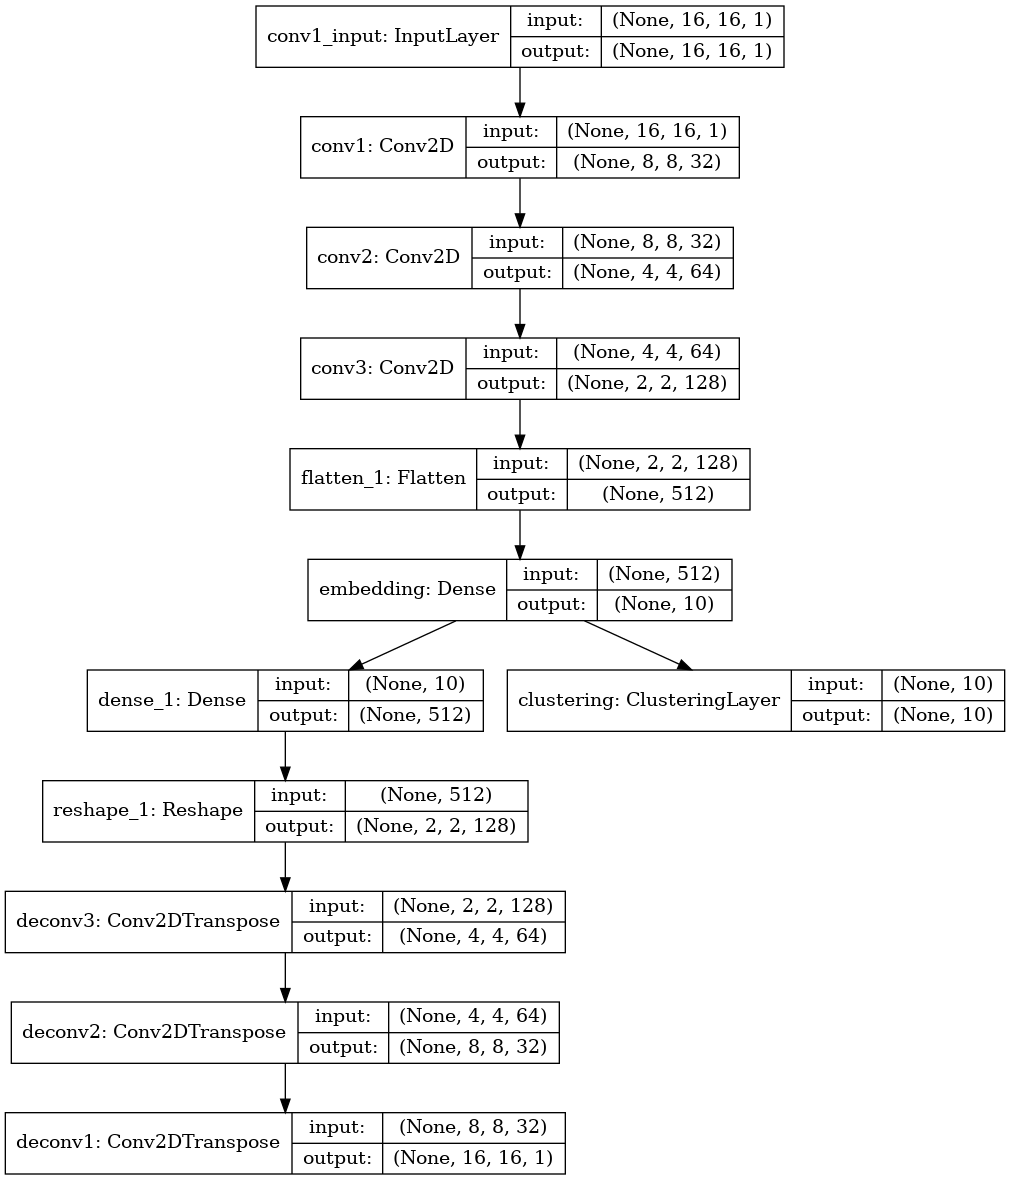
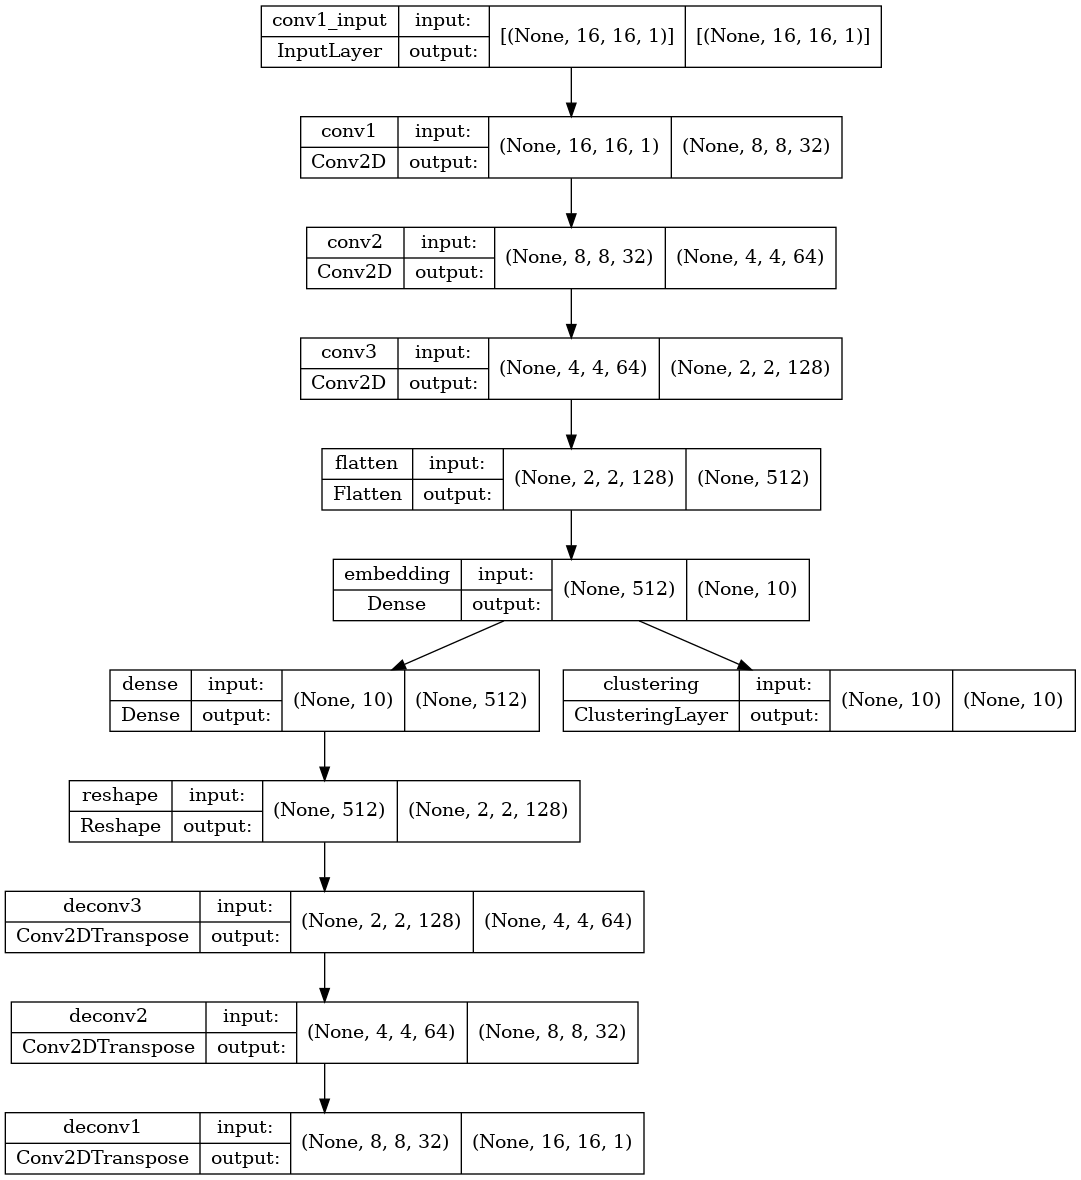
Merge tf2

diff --git a/ConvAE.py b/ConvAE.py
@@ -1,38 +1,41 @@
-from keras.layers import Conv2D, Conv2DTranspose, Dense, Flatten, Reshape
-from keras.models import Sequential, Model
-from keras.utils.vis_utils import plot_model
+from tensorflow import keras
 import numpy as np
 
+
 def CAE(input_shape=(1000, 6, 1), filters=[32, 64, 128, 10]):
-    model = Sequential()
+    model = keras.models.Sequential()
+
     if input_shape[0] % 8 == 0:
         pad3 = 'same'
     else:
         pad3 = 'valid'
-    model.add(Conv2D(filters[0], 5, strides=(2,5), padding='same', activation='relu', name='conv1', input_shape=input_shape))
 
-    model.add(Conv2D(filters[1], 5, strides=(2,1), padding='same', activation='relu', name='conv2'))
+    model.add(keras.layers.Conv2D(filters[0], 5, strides=(2,5), padding='same', activation='relu', name='conv1', input_shape=input_shape))
 
-    model.add(Conv2D(filters[2], 3, strides=(2,1), padding=pad3, activation='relu', name='conv3'))
+    model.add(keras.layers.Conv2D(filters[1], 5, strides=(2,1), padding='same', activation='relu', name='conv2'))
 
-    model.add(Flatten())
-    model.add(Dense(units=filters[3], name='embedding'))
-    model.add(Dense(units=filters[2]*int(input_shape[0]/8)*int(input_shape[1]/5), activation='relu'))
+    model.add(keras.layers.Conv2D(filters[2], 3, strides=(2,1), padding=pad3, activation='relu', name='conv3'))
 
-    model.add(Reshape((int(input_shape[0]/8), int(input_shape[1]/5), filters[2])))
-    model.add(Conv2DTranspose(filters[1], 3, strides=(2,1), padding=pad3, activation='relu', name='deconv3'))
+    model.add(keras.layers.Flatten())
+    model.add(keras.layers.Dense(units=filters[3], name='embedding'))
+    model.add(keras.layers.Dense(units=filters[2]*int(input_shape[0]/8)*int(input_shape[1]/5), activation='relu'))
 
-    model.add(Conv2DTranspose(filters[0], 5, strides=(2,1), padding='same', activation='relu', name='deconv2'))
+    model.add(keras.layers.Reshape((int(input_shape[0]/8), int(input_shape[1]/5), filters[2])))
+    model.add(keras.layers.Conv2DTranspose(filters[1], 3, strides=(2,1), padding=pad3, activation='relu', name='deconv3'))
 
-    model.add(Conv2DTranspose(input_shape[2], 5, strides=(2,5), padding='same', name='deconv1'))
+    model.add(keras.layers.Conv2DTranspose(filters[0], 5, strides=(2,1), padding='same', activation='relu', name='deconv2'))
+
+    model.add(keras.layers.Conv2DTranspose(input_shape[2], 5, strides=(2,5), padding='same', name='deconv1'))
     model.summary()
     return model
+
 
 if __name__ == "__main__":
     from time import time
 
     # setting the hyper parameters
     import argparse
+
     parser = argparse.ArgumentParser(description='train')
     parser.add_argument('--dataset', default='usps', choices=['mnist', 'usps', 'fasta'])
     parser.add_argument('--n_clusters', default=10, type=int)
@@ -43,11 +46,13 @@ if __name__ == "__main__":
     print(args)
 
     import os
+
     if not os.path.exists(args.save_dir):
         os.makedirs(args.save_dir)
 
     # load dataset
     from datasets import load_mnist, load_usps, load_fasta
+
     if args.dataset == 'mnist':
         x, y = load_mnist()
     elif args.dataset == 'usps':
@@ -57,13 +62,14 @@ if __name__ == "__main__":
     
     # define the model
     model = CAE(input_shape=x.shape[1:], filters=[32, 64, 128, 10])
-    plot_model(model, to_file=args.save_dir + '/%s-pretrain-model.png' % args.dataset, show_shapes=True)
+    keras.utils.plot_model(model, to_file=args.save_dir + '/%s-pretrain-model.png' % args.dataset, show_shapes=True)
     model.summary()
 
     # compile the model and callbacks
     optimizer = 'adam'
     model.compile(optimizer=optimizer, loss='mse')
     from keras.callbacks import CSVLogger
+
     csv_logger = CSVLogger(args.save_dir + '/%s-pretrain-log.csv' % args.dataset)
 
     # begin training
@@ -73,15 +79,17 @@ if __name__ == "__main__":
     model.save(args.save_dir + '/%s-pretrain-model-%d.h5' % (args.dataset, args.epochs))
 
     # extract features
-    feature_model = Model(inputs=model.input, outputs=model.get_layer(name='embedding').output)
+    feature_model = keras.models.Model(inputs=model.input, outputs=model.get_layer(name='embedding').output)
     features = feature_model.predict(x)
     print('feature shape=', features.shape)
 
     # use features for clustering
     from sklearn.cluster import KMeans
+
     km = KMeans(n_clusters=args.n_clusters)
 
     features = np.reshape(features, newshape=(features.shape[0], -1))
     pred = km.fit_predict(features)
     from . import metrics
+
     print('acc=', metrics.acc(y, pred), 'nmi=', metrics.nmi(y, pred), 'ari=', metrics.ari(y, pred))

diff --git a/DCEC.py b/DCEC.py
@@ -1,15 +1,13 @@
 from time import time
 import numpy as np
 import keras.backend as K
-from keras.engine.topology import Layer, InputSpec
-from keras.models import Model
-from keras.utils.vis_utils import plot_model
+from tensorflow import keras
 from sklearn.cluster import KMeans
 import metrics
 from ConvAE import CAE
 
 
-class ClusteringLayer(Layer):
+class ClusteringLayer(keras.layers.Layer):
     """
     Clustering layer converts input sample (feature) to soft label, i.e. a vector that represents the probability of the
     sample belonging to each cluster. The probability is calculated with student's t-distribution.
@@ -35,13 +33,13 @@ class ClusteringLayer(Layer):
         self.n_clusters = n_clusters
         self.alpha = alpha
         self.initial_weights = weights
-        self.input_spec = InputSpec(ndim=2)
+        self.input_spec = keras.layers.InputSpec(ndim=2)
 
     def build(self, input_shape):
         assert len(input_shape) == 2
         input_dim = input_shape[1]
-        self.input_spec = InputSpec(dtype=K.floatx(), shape=(None, input_dim))
-        self.clusters = self.add_weight((self.n_clusters, input_dim), initializer='glorot_uniform', name='clusters')
+        self.input_spec = keras.layers.InputSpec(dtype=K.floatx(), shape=(None, input_dim))
+        self.clusters = self.add_weight(shape=(self.n_clusters, input_dim), initializer='glorot_uniform', name='clusters')
         if self.initial_weights is not None:
             self.set_weights(self.initial_weights)
             del self.initial_weights
@@ -87,12 +85,12 @@ class DCEC(object):
 
         self.cae = CAE(input_shape, filters)
         hidden = self.cae.get_layer(name='embedding').output
-        self.encoder = Model(inputs=self.cae.input, outputs=hidden)
+        self.encoder = keras.models.Model(inputs=self.cae.input, outputs=hidden)
 
         # Define DCEC model
-        clustering_layer = ClusteringLayer(self.n_clusters, name='clustering')(hidden)
-        self.model = Model(inputs=self.cae.input,
-                           outputs=[clustering_layer, self.cae.output])
+        self.clustering_layer = ClusteringLayer(self.n_clusters, name='clustering')(hidden)
+        self.model = keras.models.Model(inputs=self.cae.input,
+                           outputs=[self.clustering_layer, self.cae.output])
 
     def pretrain(self, x, batch_size=256, epochs=200, optimizer='adam', save_dir='results/temp'):
         print('...Pretraining...')
@@ -150,7 +148,7 @@ class DCEC(object):
         kmeans = KMeans(n_clusters=self.n_clusters, n_init=20)
         self.y_pred = kmeans.fit_predict(self.encoder.predict(x))
         y_pred_last = np.copy(self.y_pred)
-        self.model.get_layer(name='clustering').set_weights([kmeans.cluster_centers_])
+        self.model.get_layer("clustering").set_weights([kmeans.cluster_centers_])
 
         # Step 3: deep clustering
         # logging file
@@ -253,7 +251,7 @@ if __name__ == "__main__":
 
     # prepare the DCEC model
     dcec = DCEC(input_shape=x.shape[1:], filters=[32, 64, 128, 10], n_clusters=args.n_clusters)
-    plot_model(dcec.model, to_file=args.save_dir + '/dcec_model.png', show_shapes=True)
+    keras.utils.plot_model(dcec.model, to_file=args.save_dir + '/dcec_model.png', show_shapes=True)
     dcec.model.summary()
 
     # begin clustering.

diff --git a/metrics.py b/metrics.py
@@ -1,5 +1,6 @@
 import numpy as np
 from sklearn.metrics import normalized_mutual_info_score, adjusted_rand_score
+from scipy.optimize import linear_sum_assignment as linear_assignment
 
 nmi = normalized_mutual_info_score
 ari = adjusted_rand_score
@@ -22,6 +23,8 @@ def acc(y_true, y_pred):
     w = np.zeros((D, D), dtype=np.int64)
     for i in range(y_pred.size):
         w[y_pred[i], y_true[i]] += 1
-    from sklearn.utils.linear_assignment_ import linear_assignment
-    ind = linear_assignment(w.max() - w)
-    return sum([w[i, j] for i, j in ind]) * 1.0 / y_pred.size
+    rows, cols = linear_assignment(w.max() - w)
+    sum = 0
+    for k in range(len(rows)):
+        sum = sum + w[rows[k], cols[k]]
+    return sum * 1.0 / y_pred.size

diff --git a/datasets.py b/datasets.py
@@ -1,7 +1,8 @@
 from base64 import decode
 import numpy as np
+import tensorflow
+
 import reader.SequenceReader as sr
-from keras.utils import to_categorical
 import matplotlib.pyplot as plt
 
 
@@ -96,13 +97,13 @@ def setCorrectSequenceLength(n, size):
     return n
 
 
-
 def myDecoder(n):
   decoded = bytes(n).decode()
   most_common_nucleotide = max(set(decoded), key=decoded.count)
   decoded = setCorrectSequenceLength(decoded, 1000)
   decoded = [most_common_nucleotide if x == 'N' else x for x in decoded]
-  return to_categorical(myMapCharsToInteger(decoded), num_classes=5)
+  return tensorflow.keras.utils.to_categorical(myMapCharsToInteger(decoded), num_classes=5)
+ 
  
 def strLengths(n):
   decoded = bytes(n).decode()

diff --git a/Debug.py b/Debug.py
@@ -1,4 +1,8 @@
 import reader.SequenceReader as sr
 
-contigs = sr.readContigs("/share_data/cami_low/CAMI_low_RL_S001__insert_270_GoldStandardAssembly.fasta")
-print(f'Parsed {len(contigs.keys())} contigs')
+# contigs = sr.readContigs("/share_data/cami_low/CAMI_low_RL_S001__insert_270_GoldStandardAssembly.fasta")
+# print(f'Parsed {len(contigs.keys())} contigs')
+
+
+import tensorflow as tf
+print("Num GPUs Available: ", len(tf.config.list_physical_devices('GPU')))
